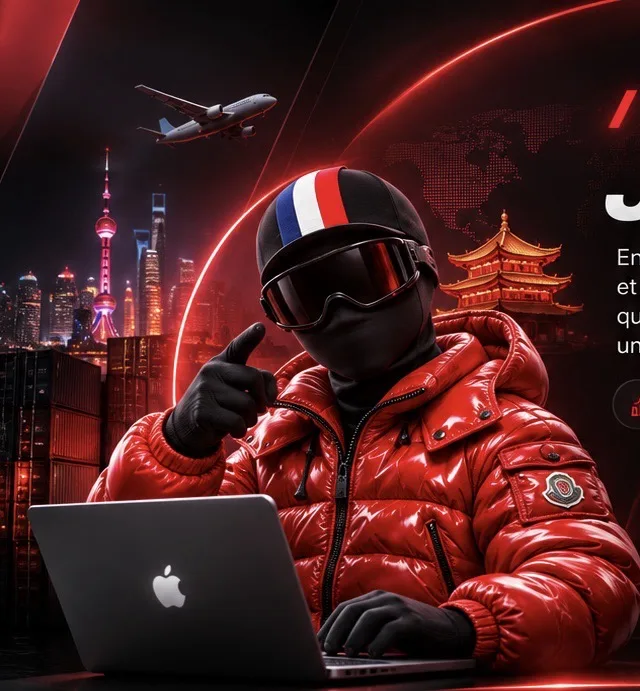
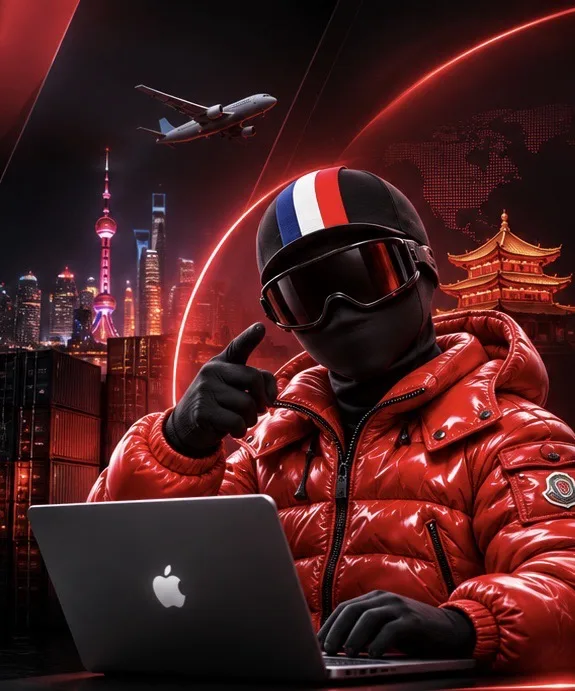
Preview V2: plus aucun bloc de fond entre sections, image de Jacob recadrée et fondue
Claude-Session: https://claude.ai/code/session_01VztEmzMe8v4M4nJq19YRhq

diff --git a/apps/dashboard/src/app/(vitrine)/preview-v2/v2.css b/apps/dashboard/src/app/(vitrine)/preview-v2/v2.css
@@ -463,3 +463,18 @@ html:has(.v2), body:has(.v2) { background: #07080b !important; }
 .kv .v2 .v2-rdv { background: radial-gradient(60% 30% at 0% 10%, #f0142f33, transparent 70%), radial-gradient(50% 25% at 100% 25%, #f0142f22, transparent 70%), radial-gradient(60% 25% at 100% 95%, #f0142f2e, transparent 70%); }
 .kv .v2 .v2-band { background: transparent; }
 .kv .v2 .v2-ask { margin-bottom: 10px; }
+
+/* ===== Aucun bloc de fond par section : tout se fond dans le décor général ===== */
+.kv .v2 .v2-rdv, .kv .v2 .v2-band, .kv .v2 .v2-qui { background: none !important; overflow: visible; }
+.kv .v2 .v2-qui::before { display: none; }
+.kv .v2 .v2-qui::after { inset: -10% -20%; background: radial-gradient(closest-side, #f0142f2e, transparent); mask-image: none; -webkit-mask-image: none; }
+.kv .v2 .v2-rdv { position: relative; }
+.kv .v2 .v2-rdv::before { display: block; content: ""; position: absolute; z-index: -1; inset: -8% -30% auto; height: 70%; border: 0; border-radius: 0; opacity: 1; filter: none; clip-path: none; box-shadow: none; background: radial-gradient(closest-side, #f0142f26, transparent); }
+.kv .v2 .v2-rdv::after { display: none; }
+/* Image de Jacob : bords fondus sur les 4 côtés */
+.kv .v2 .v2-qui-visual img {
+  -webkit-mask-image: linear-gradient(to bottom, transparent 0, #000 14%, #000 72%, transparent 100%), linear-gradient(to right, transparent 0, #000 10%, #000 88%, transparent 100%);
+  -webkit-mask-composite: source-in;
+  mask-image: linear-gradient(to bottom, transparent 0, #000 14%, #000 72%, transparent 100%), linear-gradient(to right, transparent 0, #000 10%, #000 88%, transparent 100%);
+  mask-composite: intersect;
+}

diff --git a/apps/dashboard/src/app/(vitrine)/preview-v2/page.tsx b/apps/dashboard/src/app/(vitrine)/preview-v2/page.tsx
@@ -173,7 +173,7 @@ export default function PreviewV2Home() {
       {/* VISUEL JACOB */}
       <section className="v2-qui" data-reveal>
         <div className="v2-qui-visual">
-          <img src="/vitrine/jacob-qui.webp" alt="Jacob devant son ordinateur, Shanghai en arrière-plan" width={640} height={691} loading="lazy" />
+          <img src="/vitrine/jacob-qui.webp" alt="Jacob devant son ordinateur, Shanghai en arrière-plan" width={575} height={691} loading="lazy" />
         </div>
         <div className="v2-qui-copy">
           <p className="v2-qui-eyebrow">
